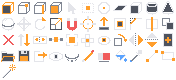
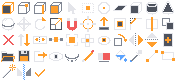
Mirro modifier

Changed region(s): [[0.0852, 0.8, 0.2557, 1.0]]

diff --git a/src/app.rs b/src/app.rs
@@ -55,11 +55,45 @@ pub struct Object {
     /// rotated; this records by how much, so it can be shown, edited and exported.
     #[serde(default)]
     pub rotation: Vec3,
+    /// Mirror modifier: reflect the mesh across the plane through the origin facing
+    /// the object's own X / Y / Z axis. Shown and exported, but not part of `mesh`.
+    #[serde(default)]
+    pub mirror: [bool; 3],
 }
 
 impl Object {
     pub fn new(name: impl Into<String>, mesh: Mesh) -> Self {
-        Object { name: name.into(), mesh, visible: true, origin: Vec3::ZERO, rotation: Vec3::ZERO }
+        Object { name: name.into(), mesh, visible: true, origin: Vec3::ZERO, rotation: Vec3::ZERO, mirror: [false; 3] }
+    }
+
+    pub fn has_mirror(&self) -> bool {
+        self.mirror.iter().any(|m| *m)
+    }
+
+    /// The mesh as it is shown and exported: with the mirror modifier applied.
+    pub fn display_mesh(&self) -> std::borrow::Cow<'_, Mesh> {
+        if !self.has_mirror() {
+            return std::borrow::Cow::Borrowed(&self.mesh);
+        }
+        let q = pixelmesh::xform::euler_quat(self.rotation);
+        let mut mesh = self.mesh.clone();
+        for (axis, on) in [Vec3::X, Vec3::Y, Vec3::Z].into_iter().zip(self.mirror) {
+            if on {
+                mesh = mesh.mirrored(self.origin, q * axis, 1e-4);
+            }
+        }
+        std::borrow::Cow::Owned(mesh)
+    }
+
+    /// Changes whenever `display_mesh` would.
+    pub fn display_key(&self) -> u64 {
+        use pixelmesh::mesh::mix;
+        let fp = self.mesh.fingerprint();
+        if !self.has_mirror() {
+            return fp;
+        }
+        let bits = self.mirror.iter().enumerate().fold(0u64, |b, (i, on)| b | (*on as u64) << i);
+        [self.origin, self.rotation].iter().flat_map(|v| v.to_array()).fold(mix(fp, bits + 1), |h, c| mix(h, c.to_bits() as u64))
     }
 
     pub fn bounds(&self) -> Option<(Vec3, Vec3)> {
@@ -228,6 +262,8 @@ impl App {
                     let size = pixelmesh::icons::SIZE as usize;
                     let px = atlas.as_ref()
                         .and_then(|a| pixelmesh::icons::from_atlas(a.as_raw(), a.width(), a.height(), icon))
+                        // An empty cell means the image predates this icon: use the built-in drawing.
+                        .filter(|px| px.chunks_exact(4).any(|p| p[3] != 0))
                         .unwrap_or_else(|| pixelmesh::icons::pixels(icon));
                     let img = egui::ColorImage::from_rgba_unmultiplied([size, size], &px);
                     (icon, cc.egui_ctx.load_texture(format!("icon-{icon:?}"), img, egui::TextureOptions::NEAREST))
@@ -372,6 +408,21 @@ impl App {
         self.status = "Origin moved (geometry unchanged).".into();
     }
 
+    /// Make the active object's mirror permanent: the mirrored half becomes real, editable geometry.
+    pub fn apply_mirror(&mut self) {
+        let Some(obj) = self.objects.get(self.active).filter(|o| o.has_mirror()) else {
+            self.status = "This object has no mirror to apply.".into();
+            return;
+        };
+        let baked = obj.display_mesh().into_owned();
+        self.push_undo();
+        let obj = &mut self.objects[self.active];
+        obj.mesh = baked;
+        obj.mirror = [false; 3];
+        self.clear_selection();
+        self.status = "Mirror applied: both halves are now ordinary geometry.".into();
+    }
+
     /// Join every selected object into the active one.
     pub fn merge_selected(&mut self) {
         if self.sel_mode != SelMode::Object || self.sel_objects.len() < 2 {
@@ -381,8 +432,12 @@ impl App {
         let target = if self.sel_objects.contains(&self.active) { self.active } else { *self.sel_objects.iter().next().unwrap() };
         self.push_undo();
         let others: Vec<usize> = self.sel_objects.iter().copied().filter(|&i| i != target).collect();
+        // Mirror modifiers are baked first: each object goes in the way it looks.
+        let baked = self.objects[target].display_mesh().into_owned();
+        self.objects[target].mesh = baked;
+        self.objects[target].mirror = [false; 3];
         for &i in &others {
-            let mesh = self.objects[i].mesh.clone();
+            let mesh = self.objects[i].display_mesh().into_owned();
             self.objects[target].mesh.append(&mesh);
         }
         for &i in others.iter().rev() {
@@ -963,9 +1018,11 @@ impl App {
         let tex_name = self.texture.as_ref()
             .and_then(|t| t.path.file_name().and_then(|n| n.to_str()).map(str::to_string));
         // Objects without faces would only produce empty nodes.
-        let objects: Vec<fbx::FbxObject> = self.objects.iter()
-            .filter(|o| !o.mesh.faces.is_empty())
-            .map(|o| fbx::FbxObject { name: &o.name, mesh: &o.mesh, origin: o.origin, rotation: o.rotation })
+        // Mirror modifiers are applied in the exported geometry.
+        let meshes: Vec<std::borrow::Cow<Mesh>> = self.objects.iter().map(|o| o.display_mesh()).collect();
+        let objects: Vec<fbx::FbxObject> = self.objects.iter().zip(&meshes)
+            .filter(|(o, _)| !o.mesh.faces.is_empty())
+            .map(|(o, mesh)| fbx::FbxObject { name: &o.name, mesh, origin: o.origin, rotation: o.rotation })
             .collect();
         if objects.is_empty() {
             self.status = "Nothing to export: the scene has no faces.".into();

diff --git a/src/viewport.rs b/src/viewport.rs
@@ -576,7 +576,7 @@ impl App {
                 // Nearest visible object under the cursor becomes the active one.
                 let hit = self.objects.iter().enumerate()
                     .filter(|(_, o)| o.visible)
-                    .filter_map(|(i, o)| o.mesh.raycast(origin, dir).map(|(_, t)| (i, t)))
+                    .filter_map(|(i, o)| o.display_mesh().raycast(origin, dir).map(|(_, t)| (i, t)))
                     .min_by(|a, b| a.1.total_cmp(&b.1));
                 match hit {
                     Some((i, _)) => self.select_object(i, additive),
@@ -672,14 +672,14 @@ impl App {
         match self.sel_mode {
             SelMode::Object => {
                 for (i, obj) in self.objects.iter().enumerate() {
-                    if obj.visible && obj.mesh.positions.iter().any(|&p| self.camera.project(rect, p).is_some_and(&inside)) {
+                    if obj.visible && obj.display_mesh().positions.iter().any(|&p| self.camera.project(rect, p).is_some_and(&inside)) {
                         hits.objects.insert(i);
                     }
                 }
                 if let Some((o, d)) = centre_ray {
                     let nearest = self.objects.iter().enumerate()
                         .filter(|(_, obj)| obj.visible)
-                        .filter_map(|(i, obj)| obj.mesh.raycast(o, d).map(|(_, t)| (i, t)))
+                        .filter_map(|(i, obj)| obj.display_mesh().raycast(o, d).map(|(_, t)| (i, t)))
                         .min_by(|a, b| a.1.total_cmp(&b.1));
                     hits.objects.extend(nearest.map(|(i, _)| i));
                 }
@@ -779,7 +779,7 @@ impl App {
             SelMode::Object => {
                 let hit = self.objects.iter().enumerate()
                     .filter(|(_, o)| o.visible)
-                    .filter_map(|(i, o)| o.mesh.raycast(origin, dir).map(|(_, t)| (i, t)))
+                    .filter_map(|(i, o)| o.display_mesh().raycast(origin, dir).map(|(_, t)| (i, t)))
                     .min_by(|a, b| a.1.total_cmp(&b.1));
                 if let Some((i, _)) = hit {
                     if !self.sel_objects.contains(&i) {
@@ -833,10 +833,10 @@ impl App {
             if !obj.visible || edited == Some(i) {
                 continue;
             }
-            let fp = obj.mesh.fingerprint();
+            let fp = obj.display_key();
             in_use.insert(fp);
             cached.push((i, fp));
-            self.geom_cache.entry(fp).or_insert_with(|| Arc::new(ObjGeom::build(&obj.mesh)));
+            self.geom_cache.entry(fp).or_insert_with(|| Arc::new(ObjGeom::build(&obj.display_mesh())));
         }
         self.geom_cache.retain(|fp, _| in_use.contains(fp));
 
@@ -900,6 +900,22 @@ impl App {
                     }
                 }
                 lines.line(pa, pb, c);
+            }
+            // The mirrored half follows along while editing, but is not itself editable.
+            if obj.has_mirror() {
+                let full = obj.display_mesh();
+                for (fi, face) in full.faces.iter().enumerate().skip(mesh.faces.len()) {
+                    let normal = full.face_normal(fi);
+                    for tri in full.triangulate(fi) {
+                        for c in tri {
+                            tris.push(full.positions[face.verts[c] as usize], normal, face.uvs[c], [0.25, 0.4, 0.7, 0.18]);
+                        }
+                    }
+                    for k in 0..face.verts.len() {
+                        let (a, b) = (face.verts[k], face.verts[(k + 1) % face.verts.len()]);
+                        lines.line(full.positions[a as usize], full.positions[b as usize], [0.3, 0.5, 0.95, 0.6]);
+                    }
+                }
             }
             if self.sel_mode == SelMode::Vertex {
                 for (i, &p) in mesh.positions.iter().enumerate() {

diff --git a/src/mesh.rs b/src/mesh.rs
@@ -1028,6 +1028,37 @@ impl Mesh {
         created
     }
 
+    /// This mesh plus its reflection in the plane through `point` with the given
+    /// normal. Vertices lying on the plane (within `eps`) are shared by both
+    /// halves, so the seam is welded; faces lying wholly in the plane are not doubled.
+    pub fn mirrored(&self, point: Vec3, normal: Vec3, eps: f32) -> Mesh {
+        let n = normal.normalize_or_zero();
+        if n == Vec3::ZERO {
+            return self.clone();
+        }
+        let mut out = self.clone();
+        let twin: Vec<u32> = self.positions.iter().enumerate().map(|(i, &p)| {
+            let d = (p - point).dot(n);
+            if d.abs() <= eps {
+                i as u32
+            } else {
+                out.positions.push(p - 2.0 * d * n);
+                out.positions.len() as u32 - 1
+            }
+        }).collect();
+        for face in &self.faces {
+            if face.verts.iter().all(|&v| twin[v as usize] == v) {
+                continue;
+            }
+            // A reflection turns faces inside out, so the copy is wound the other way.
+            out.faces.push(Face {
+                verts: face.verts.iter().rev().map(|&v| twin[v as usize]).collect(),
+                uvs: face.uvs.iter().rev().copied().collect(),
+            });
+        }
+        out
+    }
+
     pub fn flip_faces(&mut self, faces: &BTreeSet<usize>) {
         for &f in faces {
             self.faces[f].verts.reverse();
@@ -1425,6 +1456,30 @@ mod tests {
         assert_eq!((m.faces.len(), m.positions.len()), (11, 18));
         assert!(is_closed(&m) && normals_point_out(&m));
         assert!(m.faces.iter().all(|f| f.verts.len() == f.uvs.len()));
+    }
+
+    #[test]
+    fn mirror_welds_the_seam() {
+        // Half a box: a unit cube with its -X side removed, mirrored across the plane of that side.
+        let mut half = Mesh::cube();
+        let open_side: BTreeSet<usize> = (0..6).filter(|&f| half.face_normal(f).x < -0.9).collect();
+        half.delete_faces(&open_side);
+        assert!(!is_closed(&half));
+        let whole = half.mirrored(Vec3::new(-0.5, 0.0, 0.0), Vec3::X, 1e-4);
+        assert_eq!((whole.faces.len(), whole.positions.len()), (10, 12)); // 4 seam vertices shared
+        assert!(is_closed(&whole));
+        assert!((volume(&whole) - 2.0).abs() < 1e-5);
+        assert!(whole.positions.iter().any(|p| (p.x + 1.5).abs() < 1e-6));
+        // UVs come along unchanged.
+        assert!(whole.faces.iter().all(|f| f.verts.len() == f.uvs.len()));
+        // A face lying in the mirror plane is not duplicated.
+        let plane = Mesh::plane().mirrored(Vec3::ZERO, Vec3::Y, 1e-4);
+        assert_eq!((plane.faces.len(), plane.positions.len()), (1, 4));
+        // Mirroring twice (two axes) gives four copies.
+        let quarter = Mesh::plane().translated(Vec3::new(1.0, 0.0, 1.0));
+        let four = quarter.mirrored(Vec3::ZERO, Vec3::X, 1e-4).mirrored(Vec3::ZERO, Vec3::Z, 1e-4);
+        assert_eq!(four.faces.len(), 4);
+        assert!((0..4).all(|f| four.face_normal(f).abs_diff_eq(Vec3::Y, 1e-6)));
     }
 
     #[test]

diff --git a/src/sidebar.rs b/src/sidebar.rs
@@ -138,6 +138,7 @@ impl App {
             card(ui, "SELECT", |ui| self.select_card(ui));
             card(ui, "ADD MESH", |ui| self.add_card(ui));
             card(ui, "TRANSFORM", |ui| self.transform_card(ui));
+            card(ui, "MIRROR", |ui| self.mirror_card(ui));
             card(ui, "MESH", |ui| self.mesh_card(ui));
             card(ui, "UV MAPPING", |ui| self.uv_card(ui));
             card(ui, "TEXTURE", |ui| self.texture_card(ui, &ctx));
@@ -460,6 +461,43 @@ impl App {
                     self.set_origin(OriginTo::Selection);
                 }
             });
+        }
+    }
+
+    fn mirror_card(&mut self, ui: &mut egui::Ui) {
+        let w = tile_width(ui, 4);
+        let active = self.active;
+        let Some(mirror) = self.objects.get(active).map(|o| o.mirror) else {
+            ui.label(RichText::new("No object.").color(MUTED));
+            return;
+        };
+        let mut toggle = None;
+        let mut apply = false;
+        row(ui, |ui| {
+            for (axis, label) in ["Mirror X", "Mirror Y", "Mirror Z"].into_iter().enumerate() {
+                if self.tile(ui, Icon::Mirror, label, mirror[axis], w)
+                    .on_hover_text("Show a mirrored copy of the active object across its origin, along this axis of the object. It updates as you edit, welds where the halves meet, and is included when exporting.")
+                    .clicked()
+                {
+                    toggle = Some(axis);
+                }
+            }
+            ui.add_enabled_ui(mirror.iter().any(|m| *m), |ui| {
+                apply = self.tile(ui, Icon::Apply, "Apply", false, w)
+                    .on_hover_text("Make the mirror permanent: the mirrored half becomes ordinary geometry you can edit")
+                    .on_disabled_hover_text("Turn on a mirror axis first")
+                    .clicked();
+            });
+        });
+        if let Some(axis) = toggle {
+            self.push_undo();
+            self.objects[active].mirror[axis] = !mirror[axis];
+        }
+        if apply {
+            self.apply_mirror();
+        }
+        if mirror.iter().any(|m| *m) {
+            ui.label(RichText::new("Mirrors across the origin (orange ring).").size(10.5).color(MUTED));
         }
     }
 

diff --git a/src/icons.rs b/src/icons.rs
@@ -25,9 +25,11 @@ pub enum Icon {
     Pencil, Eraser, Fill, Picker, Line, Rect,
     // New icons go at the end so the positions in assets/icons.png never shift.
     Wand,
+    Mirror,
+    Apply,
 }
 
-pub const ALL: [Icon; 45] = [
+pub const ALL: [Icon; 47] = [
     Icon::Object, Icon::Vertex, Icon::Edge, Icon::Face,
     Icon::Click, Icon::BoxSelect, Icon::CircleSelect,
     Icon::Plane, Icon::Cube, Icon::Cylinder, Icon::Cone, Icon::Sphere,
@@ -37,7 +39,7 @@ pub const ALL: [Icon; 45] = [
     Icon::New, Icon::Load, Icon::Save, Icon::Export,
     Icon::EyeOpen, Icon::EyeClosed,
     Icon::Pencil, Icon::Eraser, Icon::Fill, Icon::Picker, Icon::Line, Icon::Rect,
-    Icon::Wand,
+    Icon::Wand, Icon::Mirror, Icon::Apply,
 ];
 
 /// A 16x16 scratch canvas with a few drawing helpers.
@@ -408,6 +410,26 @@ pub fn pixels(icon: Icon) -> Vec<u8> {
             c.l(3, 12, 12, 3, W);
             c.f(2, 11, 4, 13, O);
             c.f(11, 2, 13, 4, O);
+        }
+        Icon::Mirror => {
+            // A shape and its reflection either side of a dashed line.
+            c.dash(7, 0, 7, 15, B);
+            c.dash(8, 1, 8, 15, B);
+            for i in 0..5 {
+                c.l(1 + i, 4 + i, 1 + i, 11, W);
+                c.l(14 - i, 4 + i, 14 - i, 11, G);
+            }
+        }
+        Icon::Apply => {
+            // Tick.
+            for i in 0..4 {
+                c.p(3 + i, 8 + i, O);
+                c.p(3 + i, 9 + i, O);
+            }
+            for i in 0..7 {
+                c.p(6 + i, 11 - i, O);
+                c.p(6 + i, 12 - i, O);
+            }
         }
         Icon::Wand => {
             for i in 0..8 {

diff --git a/README.md b/README.md
@@ -92,6 +92,26 @@ centre of their base.
 Origin and rotation are written to FBX as each model's position and
 rotation, and read back on import.
 
+## Mirror
+
+The Mirror card adds a live mirror to the active object: turn on X, Y or Z
+(or several) and a reflected copy appears on the other side of the
+object's **origin**, along that axis of the object.
+
+- The mirror follows every edit. In an edit mode the mirrored half is
+  tinted blue and cannot be selected; you work on the real half.
+- Vertices lying on the mirror plane are shared by both halves, so the seam
+  is welded. Model one half with its open side on the plane.
+- Put the plane where you need it by moving the origin: the Origin tile, or
+  "Origin to Selection" with the seam's face or vertices selected.
+- Exported FBX files contain the mirrored result. Merging objects bakes
+  their mirrors first.
+- **Apply** makes the mirror permanent: the mirrored half becomes ordinary
+  geometry and the mirror is switched off.
+
+The mirrored half uses the same UVs as the original, so both sides show
+the same part of the texture.
+
 ## Moving things
 
 - **Arrows**: drag the red / green / blue arrow to move the selection along
